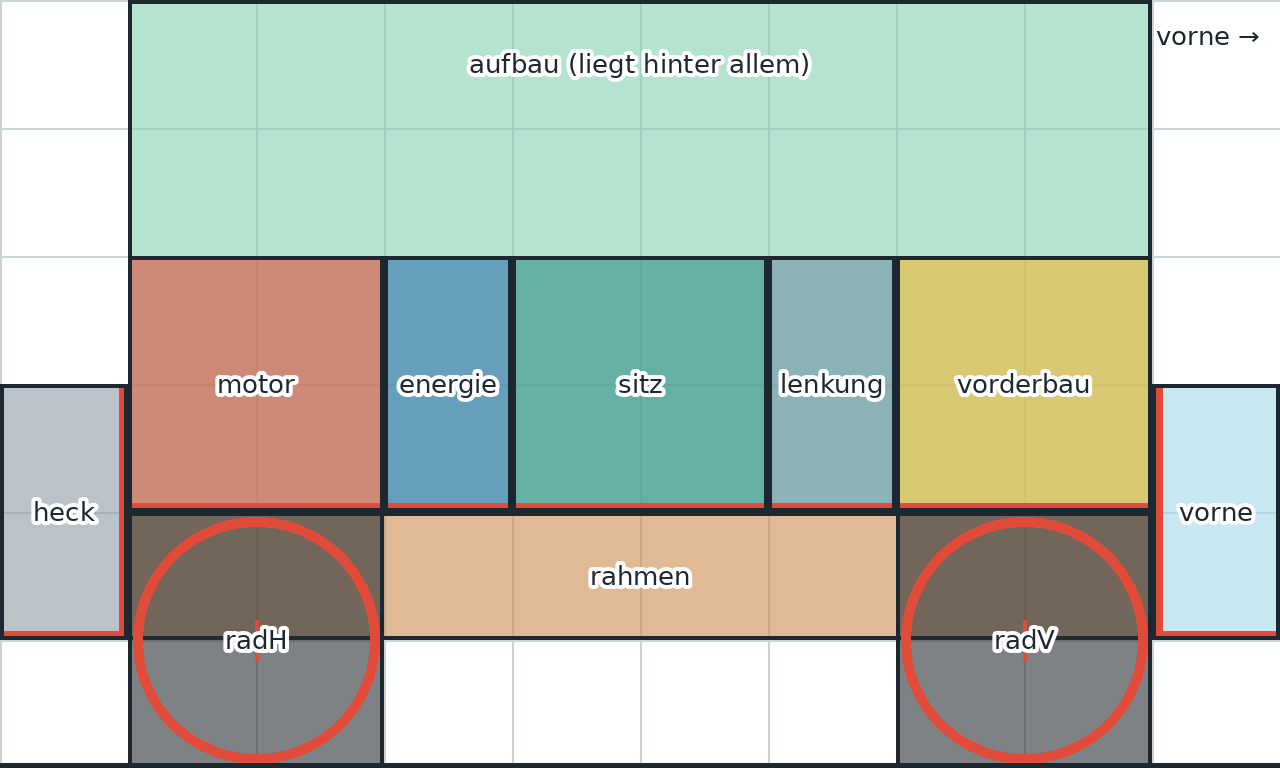
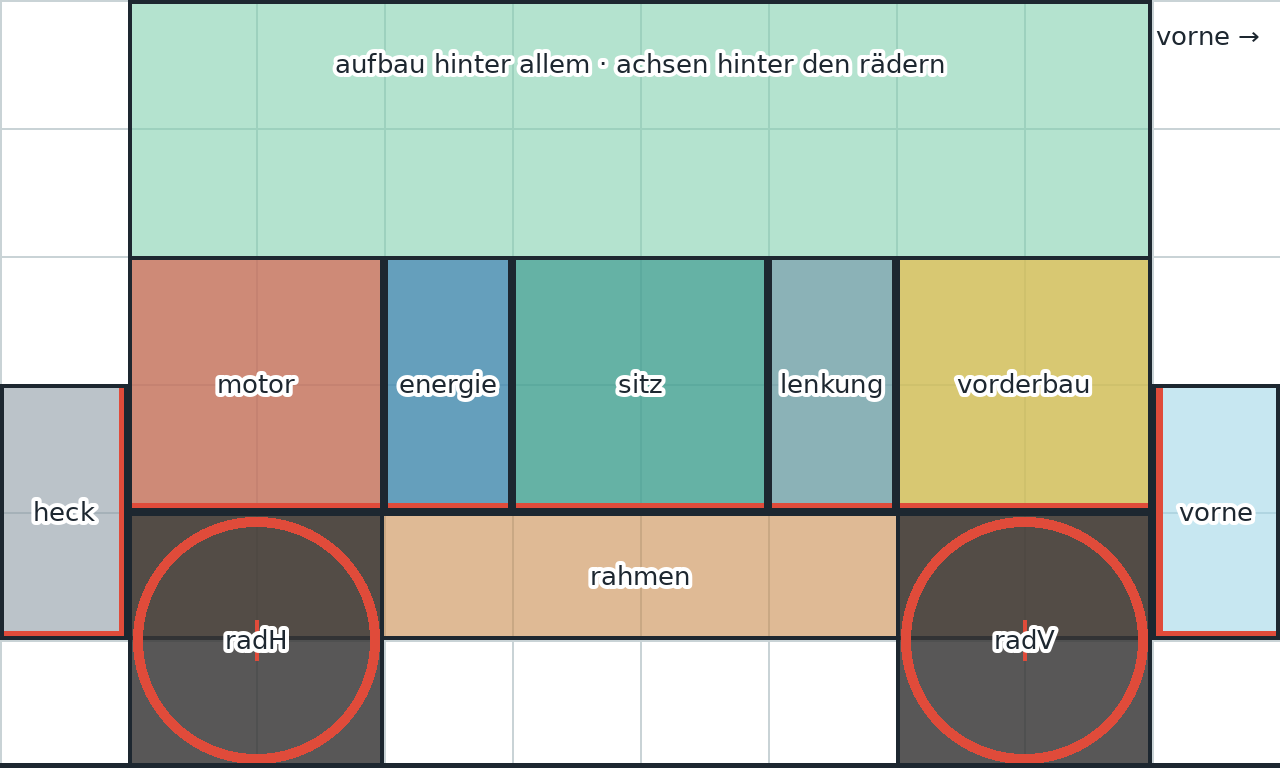
Klapperkiste: Achsen als eigene Teile im Raster
- raster.json: Kategorie achse (Seite 2x2 hinter dem Rad, Draufsicht 2x4
  über die Autobreite), Plätze achseH/achseV, gezeichnet unter den Rädern;
  Einbaureihenfolge Rahmen, Achsen, Räder
- teilwerk: Streckmodus hoehe (Achse reicht von Rad zu Rad), Tests
- Vorlagen und Gesamtplan neu erzeugt
- Prompt-Liste: rostige Achse als 7. Teil mit eigener Seitenansicht
  (Blick entlang der Achse)
- Fahrprobe nutzt das Achsenbild, sobald es geliefert ist
- KONZEPT/RASTER: Achsen-Tabelle und Einbaureihenfolge

Claude-Session: https://claude.ai/code/session_01WRaeiUW1SS7Jnky8dn2gGr

Changed region(s): [[0.6875, 0.6562, 0.9062, 1.0], [0.0938, 0.6562, 0.3125, 1.0], [0.25, 0.0625, 0.75, 0.125]]

diff --git a/klapperkiste/design/prompts.html b/klapperkiste/design/prompts.html
@@ -86,7 +86,7 @@ details.prompt-box[open] summary { margin-bottom: 8px; }
   <header>
     <p class="eyebrow">Schritt A2 · erste Serie · Comic-Look</p>
     <h1>Schrottkarre Prompt-Liste</h1>
-    <p class="lead">6 Teile, je Seitenansicht und Draufsicht. Ein Prompt erzeugt beide Ansichten in einem Bild: oben die Seite, unten die Draufsicht. Bild schicken, ich trenne und passe beide ins Raster ein.</p>
+    <p class="lead">7 Teile, je Seitenansicht und Draufsicht. Ein Prompt erzeugt beide Ansichten in einem Bild: oben die Seite, unten die Draufsicht. Bild schicken, ich trenne und passe beide ins Raster ein.</p>
     <div class="progress"><div class="bar"><i id="bar"></i></div><span id="count">0 / 12 geliefert</span></div>
   </header>
 
@@ -118,8 +118,8 @@ details.prompt-box[open] summary { margin-bottom: 8px; }
   const TOP_VIEW = "plan view seen straight from directly above, orthographic, without perspective";
 
   const prompt = {
-    blatt: (p) => `${p.subject}. Orthographic model sheet showing this same object twice, stacked vertically with a wide empty white gap between the two views. Top half: ${SIDE_VIEW}, ${p.side}. Bottom half: ${TOP_VIEW}, ${p.top}. Both views at the same scale and aligned, the front points to the right in both views. ${LOOK} ${SHEET_BG}`,
-    seite: (p) => `${p.subject}, ${SIDE_VIEW}, ${p.side}, the front points to the right. ${LOOK} ${SINGLE_BG}`,
+    blatt: (p) => `${p.subject}. Orthographic model sheet showing this same object twice, stacked vertically with a wide empty white gap between the two views. Top half: ${p.sideView || SIDE_VIEW}, ${p.side}. Bottom half: ${TOP_VIEW}, ${p.top}. Both views at the same scale and aligned, the front points to the right in both views. ${LOOK} ${SHEET_BG}`,
+    seite: (p) => `${p.subject}, ${p.sideView || SIDE_VIEW}, ${p.side}, the front points to the right. ${LOOK} ${SINGLE_BG}`,
     oben: (p) => `${p.subject}, ${TOP_VIEW}, ${p.top}, the front points to the right, matching the design of the provided side view reference. ${LOOK} ${SINGLE_BG}`,
   };
 
@@ -155,6 +155,12 @@ details.prompt-box[open] summary { margin-bottom: 8px; }
       side: "the column stands upright and the grips point to the left",
       top: "the handlebar runs from the top to the bottom of the image and the column is a small circle in the middle",
       format: { blatt: "9:16 hochkant", seite: "1:2 hochkant", oben: "1:2 hochkant" } },
+    { id: "rostachse", name: "Rostige Achse", cat: "Achse",
+      subject: "A simple rusty steel axle for a junk car: a straight rusty iron rod with a round hub flange with bolts at each end and a crude bent metal bracket bolted on near each end, grime and flaking paint",
+      sideView: "flat side view looking straight along the axle, so the rod is seen end-on: only the round hub flange with its bolts is visible, with the bent bracket rising above it, not rotated, without perspective",
+      side: "the hub is exactly in the centre",
+      top: "the rod runs straight from the top to the bottom of the image with a hub flange at both ends and the two brackets near the ends",
+      format: { blatt: "9:16 hochkant (oder schmalstes Format)", seite: "1:1", oben: "1:2 hochkant" } },
   ];
 
   // Vom Werkzeug erzeugt (teilwerk.py geliefert): eingepasste Teile mit Vorschau

diff --git a/klapperkiste/design/fahrprobe.html b/klapperkiste/design/fahrprobe.html
@@ -58,7 +58,7 @@ input:focus-visible { outline: 3px solid var(--mint); outline-offset: 2px; }
   <header style="display:grid;gap:8px">
     <p class="eyebrow">Probe mit den echten Teilen</p>
     <h1>Klapperkiste Fahrprobe</h1>
-    <p class="lead">Alle bisher gelieferten Teile der Schrottkarre, eingepasst ins Raster. Die Achsen in der Draufsicht zeichnet das Spiel selbst.</p>
+    <p class="lead">Alle bisher gelieferten Teile der Schrottkarre, eingepasst ins Raster. Bis die Achse geliefert ist, zeichnet das Spiel einfache Achsen.</p>
   </header>
 
   <section class="stage">
@@ -203,10 +203,11 @@ input:focus-visible { outline: 3px solid var(--mint); outline-offset: 2px; }
     ctx.restore();
   }
 
-  const extraKeys = EXTRAS.flatMap((e) => [e.id + "_oben", e.id + "_seite"]);
+  const extraKeys = [...EXTRAS.flatMap((e) => [e.id + "_oben", e.id + "_seite"]), "rostachse_oben"];
   Promise.all(["schubkarre_oben", "schubkarre_seite", "maeher_oben", "maeher_seite", "bettgestell_oben", "bettgestell_seite", ...extraKeys].map(load)).then(([wTop, wSide, mTop, mSide, fTop, fSide, ...extraImgs]) => {
     if (!wTop || !wSide || !mTop || !mSide) throw new Error("Motor und Räder");
     EXTRAS.forEach((e, i) => { e.imgTop = extraImgs[i * 2]; e.imgSide = extraImgs[i * 2 + 1]; });
+    const axleTop = extraImgs[EXTRAS.length * 2];
     const rolling = makeRollingWheel(wTop);
     const speedIn = document.getElementById("speed"), steerIn = document.getElementById("steer"), autoIn = document.getElementById("auto");
     let dist = 0, last = 0;
@@ -230,8 +231,12 @@ input:focus-visible { outline: 3px solid var(--mint); outline-offset: 2px; }
       }
       const cell = CELL * s;
       // Achsen: dunkle Stangen quer unter dem Rahmen, von Rad zu Rad
-      ctx.fillStyle = "#1d2730";
-      for (const ax of [2, 8]) ctx.fillRect(ox + ax * cell - 6 * s * 4, oy + 0.5 * cell, 12 * s * 4, 3 * cell);
+      if (axleTop) {
+        for (const ax of [1, 7]) ctx.drawImage(axleTop, ox + ax * cell, oy, 2 * cell, 4 * cell);
+      } else {
+        ctx.fillStyle = "#1d2730";
+        for (const ax of [2, 8]) ctx.fillRect(ox + ax * cell - 6 * s * 4, oy + 0.5 * cell, 12 * s * 4, 3 * cell);
+      }
       const [fx, fy, fw, fh] = TOP.frame;
       if (fTop) ctx.drawImage(fTop, ox + fx * cell, oy + fy * cell, fw * cell, fh * cell);
       else placeholderFrame(ctx, ox + fx * cell, oy + fy * cell, fw * cell, fh * cell, s);

diff --git a/klapperkiste/tools/teilwerk.py b/klapperkiste/tools/teilwerk.py
@@ -45,7 +45,7 @@ FARBEN = {
     "rahmen": (201, 138, 75), "rad": (38, 43, 48), "motor": (224, 75, 58),
     "energie": (47, 111, 176), "sitz": (47, 143, 136), "lenkung": (111, 143, 166),
     "vorderbau": (242, 182, 50), "vorne": (159, 215, 232), "heck": (140, 153, 163),
-    "aufbau": (127, 207, 174),
+    "aufbau": (127, 207, 174), "achse": (93, 78, 66),
 }
 
 
@@ -179,6 +179,12 @@ def einpassen(bild: Image.Image, raster: dict, kategorie: str, ansicht: str,
         neu_h = min(ziel_h, max(1, round(teil.height * ziel_b / teil.width)))
         fertig = Image.new("RGBA", (ziel_b, ziel_h), (0, 0, 0, 0))
         fertig.alpha_composite(teil.resize((ziel_b, neu_h), Image.LANCZOS), (0, (ziel_h - neu_h) // 2))
+        return fertig, hinweise
+    if strecken == "hoehe":
+        # Volle Höhe ist Pflicht (z. B. Achse von Rad zu Rad), die Dicke bleibt wie gezeichnet
+        neu_b = min(ziel_b, max(1, round(teil.width * ziel_h / teil.height)))
+        fertig = Image.new("RGBA", (ziel_b, ziel_h), (0, 0, 0, 0))
+        fertig.alpha_composite(teil.resize((neu_b, ziel_h), Image.LANCZOS), ((ziel_b - neu_b) // 2, 0))
         return fertig, hinweise
     if strecken == "voll":
         # Rahmen und Räder müssen ihre Box exakt füllen, sonst passen die Anschlüsse nicht
@@ -371,7 +377,7 @@ def gesamtplan(raster: dict, ansicht: str) -> Image.Image:
     d = ImageDraw.Draw(plan)
     schrift = _schrift(26)
     for slot, info in raster["slots"].items():
-        if slot == "aufbau" or (slot == "rahmen" and ansicht == "oben"):
+        if slot == "aufbau" or slot.startswith("achse") or (slot == "rahmen" and ansicht == "oben"):
             continue
         gb, gh = raster["kategorien"][info["kategorie"]][ansicht]
         positionen = [info["seite"]] if ansicht == "seite" else info["oben"][:1]
@@ -379,8 +385,8 @@ def gesamtplan(raster: dict, ansicht: str) -> Image.Image:
             cx, cy = (x + gb / 2) * z, (y + gh / 2) * z
             d.text((cx, cy), slot, font=schrift, fill=INK, anchor="mm", stroke_width=4,
                    stroke_fill=PAPIER)
-    text = ("aufbau (liegt hinter allem)" if ansicht == "seite"
-            else "rahmen liegt unter allem, aufbau (gestrichelt) als Dach oben")
+    text = ("aufbau hinter allem · achsen hinter den rädern" if ansicht == "seite"
+            else "unter allem: rahmen und achsen (quer) · aufbau gestrichelt als Dach")
     d.text((b // 2, 64 if ansicht == "seite" else int(3.5 * z)), text, font=schrift, fill=INK, anchor="mm",
            stroke_width=4, stroke_fill=PAPIER)
     if ansicht == "seite":

diff --git a/tests/test_klapperkiste_teilwerk.py b/tests/test_klapperkiste_teilwerk.py
@@ -153,3 +153,19 @@ def test_kappen_schneidet_rollen_unter_dem_rahmen_ab(raster):
     # Nach dem Abschneiden ist die ganze Box Balkenfarbe, keine schwarze Rolle mehr
     r, g, b, a = seite.getpixel((10, seite.height - 3))
     assert a == 255 and g > r
+
+
+def test_achse_draufsicht_reicht_von_rad_zu_rad(raster):
+    roh = Image.new("RGB", (300, 900), (255, 255, 255))
+    ImageDraw.Draw(roh).rectangle((130, 50, 170, 850), fill=(110, 70, 40))  # senkrechte Stange
+    fertig, _ = teilwerk.einpassen(roh, raster, "achse", "oben")
+    links, oben, rechts, unten = fertig.getchannel("A").getbbox()
+    assert (oben, unten) == (0, fertig.height)
+    assert rechts - links < fertig.width // 2
+
+
+def test_achse_liegt_unter_den_raedern(raster):
+    for ansicht in ("seite", "oben"):
+        folge = raster["reihenfolge_" + ansicht]
+        assert folge.index("achseH") < folge.index("radH")
+        assert folge.index("achseV") < folge.index("radV")

diff --git a/klapperkiste/KONZEPT.md b/klapperkiste/KONZEPT.md
@@ -60,6 +60,20 @@ Auto befahrbar:
 | Schmale oder schwache Brücke | Wenig Gewicht |
 | Furt, flaches Wasser | Große Räder |
 
+### Achsen
+
+Achsen sind eigene Teile mit Wirkung. Eingebaut wird in fester Reihenfolge:
+Rahmen, dann Achsen, dann Räder. Wer die Achse tauscht, muss erst die Räder
+abnehmen. Die Details legen wir beim Werkstatt-System fest.
+
+| Achse | Wirkung | öffnet zum Beispiel |
+|---|---|---|
+| Rostige Achse (Start) | nichts Besonderes, klappert | – |
+| Blattfeder-Achse | federt, kein Schaden auf Schotter | Schotter- und Feldwege |
+| Hochgelegte Geländeachse | mehr Bodenfreiheit | Furt, Matsch |
+| Lenkachse | kleiner Wendekreis | enge Serpentinen |
+| Allrad-Achse | treibt auch vorne an, mehr Grip | Schnee, steile Hänge |
+
 ### Anleihen bei Dredge
 
 - **Ladefläche als Raster:** Fracht und Fundstücke haben Formen und müssen auf
@@ -79,7 +93,7 @@ Bilder da sind.
 | Schritt | Inhalt | Stand |
 |---|---|---|
 | **A1** | Teile-Raster festlegen: Boxen pro Kategorie, Seite + Draufsicht, Vorlagen, Werkzeug zum Einpassen und Probe-Zusammenbau, Prompt-Vorlagen | ✅ fertig |
-| A2 | Erste Serie erzeugen: die 6 Teile der Schrottkarre, je Seite + Draufsicht | als Nächstes |
+| A2 | Erste Serie erzeugen: die Teile der Schrottkarre, je Seite + Draufsicht | 6 von 7 Teilen fertig, Achse fehlt |
 | A3 | Werkstatt zeigt die echten Teil-Bilder auf dem neuen Raster statt der Code-Grafik | offen |
 | A4 | Fahrerfigur und Werkstatt-Hintergrund mit Raumtiefe | offen |
 | B1 | Fahren von oben: Steuerung und Physik auf einer kleinen Testkarte | offen |

diff --git a/klapperkiste/assets/RASTER.md b/klapperkiste/assets/RASTER.md
@@ -29,6 +29,11 @@ dieser Datei.
 | Vorne | 1 × 2 | 128 × 256 | 1 × 4 | 128 × 512 | links (hängt am Rahmenende) |
 | Heck | 1 × 2 | 128 × 256 | 1 × 2 | 128 × 256 | rechts (hängt am Rahmenende) |
 | Aufbau | 8 × 4 | 1024 × 512 | 8 × 4 | 1024 × 512 | unten, liegt hinter allem |
+| Achse | 2 × 2 | 256 × 256 | 2 × 4 | 256 × 512 | Seite: Achsende mit Nabe in der Mitte, hinter dem Rad. Draufsicht: volle Höhe, von Rad zu Rad |
+
+**Einbaureihenfolge:** Rahmen, dann Achsen, dann Räder. Die Räder sitzen auf
+der Achse und verdecken in der Seitenansicht ihr Ende. Ohne Rad sieht man die
+Nabe der Achse. Zum Achsentausch müssen die Räder ab.
 
 Die roten Linien in den Vorlagen (`vorlagen/vorlage_<kategorie>_<ansicht>.png`)
 zeigen, welche Kante das Teil berühren muss.
